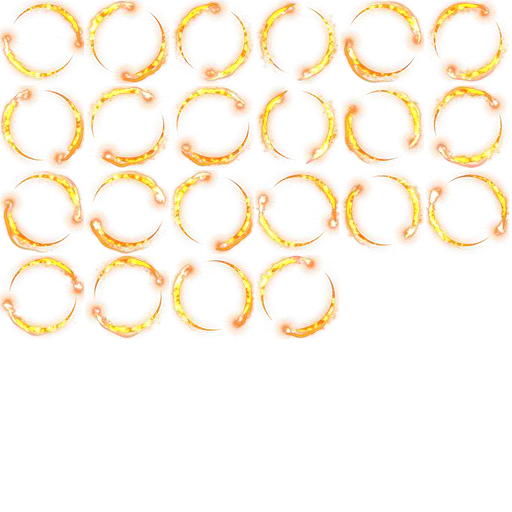
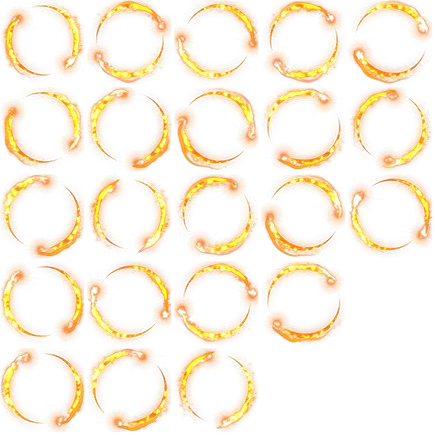
增加憎恶自爆特效

diff --git a/client/src/view/PlayerLevelUpView.ts b/client/src/view/PlayerLevelUpView.ts
@@ -91,7 +91,9 @@ class PlayerLevelUpView extends egret.DisplayObjectContainer {
             this.addChild(this.btnSelsRelicImgs[i]);
             this.addChild(this.btnSelsRelicTxts[i]);
 
-            ViewUtils.setTexName(this.btnSelsRelicImgs[i], this.choices[i] + "_png", true);
+            var img = this.btnSelsRelicImgs[i];
+            ViewUtils.setTexName(img, this.choices[i] + "_png", true);
+
             this.btnSelsRelicTxts[i].text = ViewUtils.getElemNameAndDesc(this.choices[i]).shortDesc;
         }       
     }

diff --git a/client/src/view/ViewUtils.ts b/client/src/view/ViewUtils.ts
@@ -62,7 +62,8 @@ class ViewUtils {
         var data = RES.getRes(name + "_json");
         var txtr = RES.getRes(name + "_png");
         var fact:egret.MovieClipDataFactory = new egret.MovieClipDataFactory(data, txtr);
-        return new egret.MovieClip(fact.generateMovieClipData(clipName));
+        var eff = new egret.MovieClip(fact.generateMovieClipData(clipName));
+        return eff;
     }
 
     // // 测试置灰

diff --git a/client/src/view/GridView.ts b/client/src/view/GridView.ts
@@ -306,8 +306,6 @@ class GridView extends egret.DisplayObjectContainer {
         this.effects[effName] = eff;
 
         this.effLayer.addChild(eff);
-        eff.anchorOffsetX = eff.width / 2;
-        eff.anchorOffsetY = eff.height / 2;
         eff.x = this.width / 2;
         eff.y = this.height / 2;
         eff.gotoAndPlay(0, -1);
